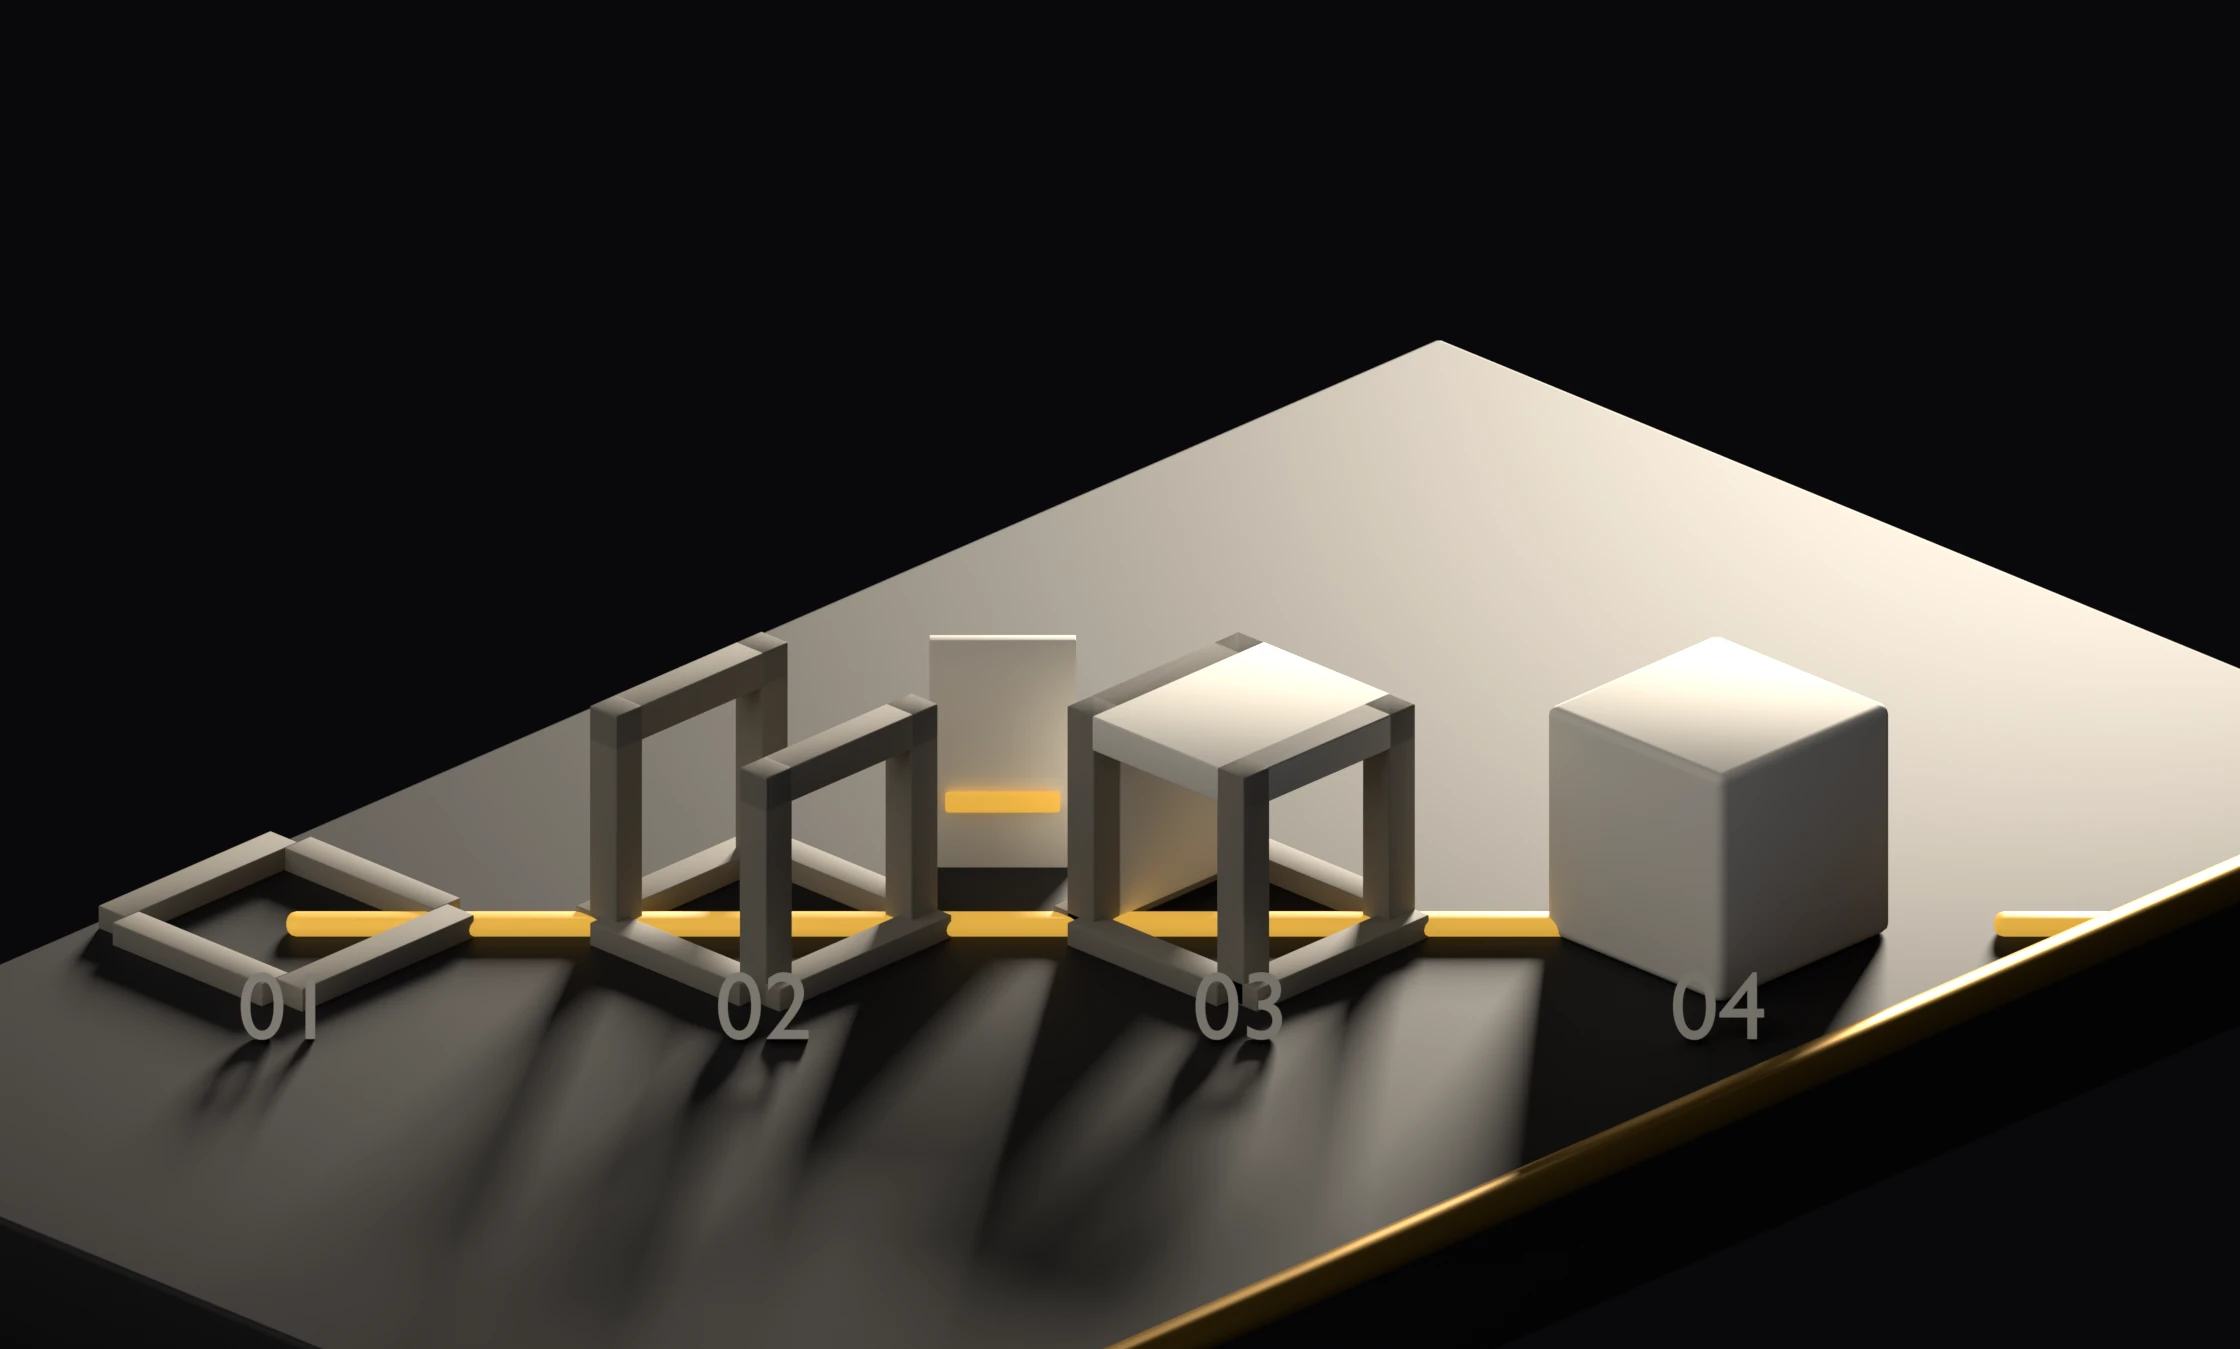
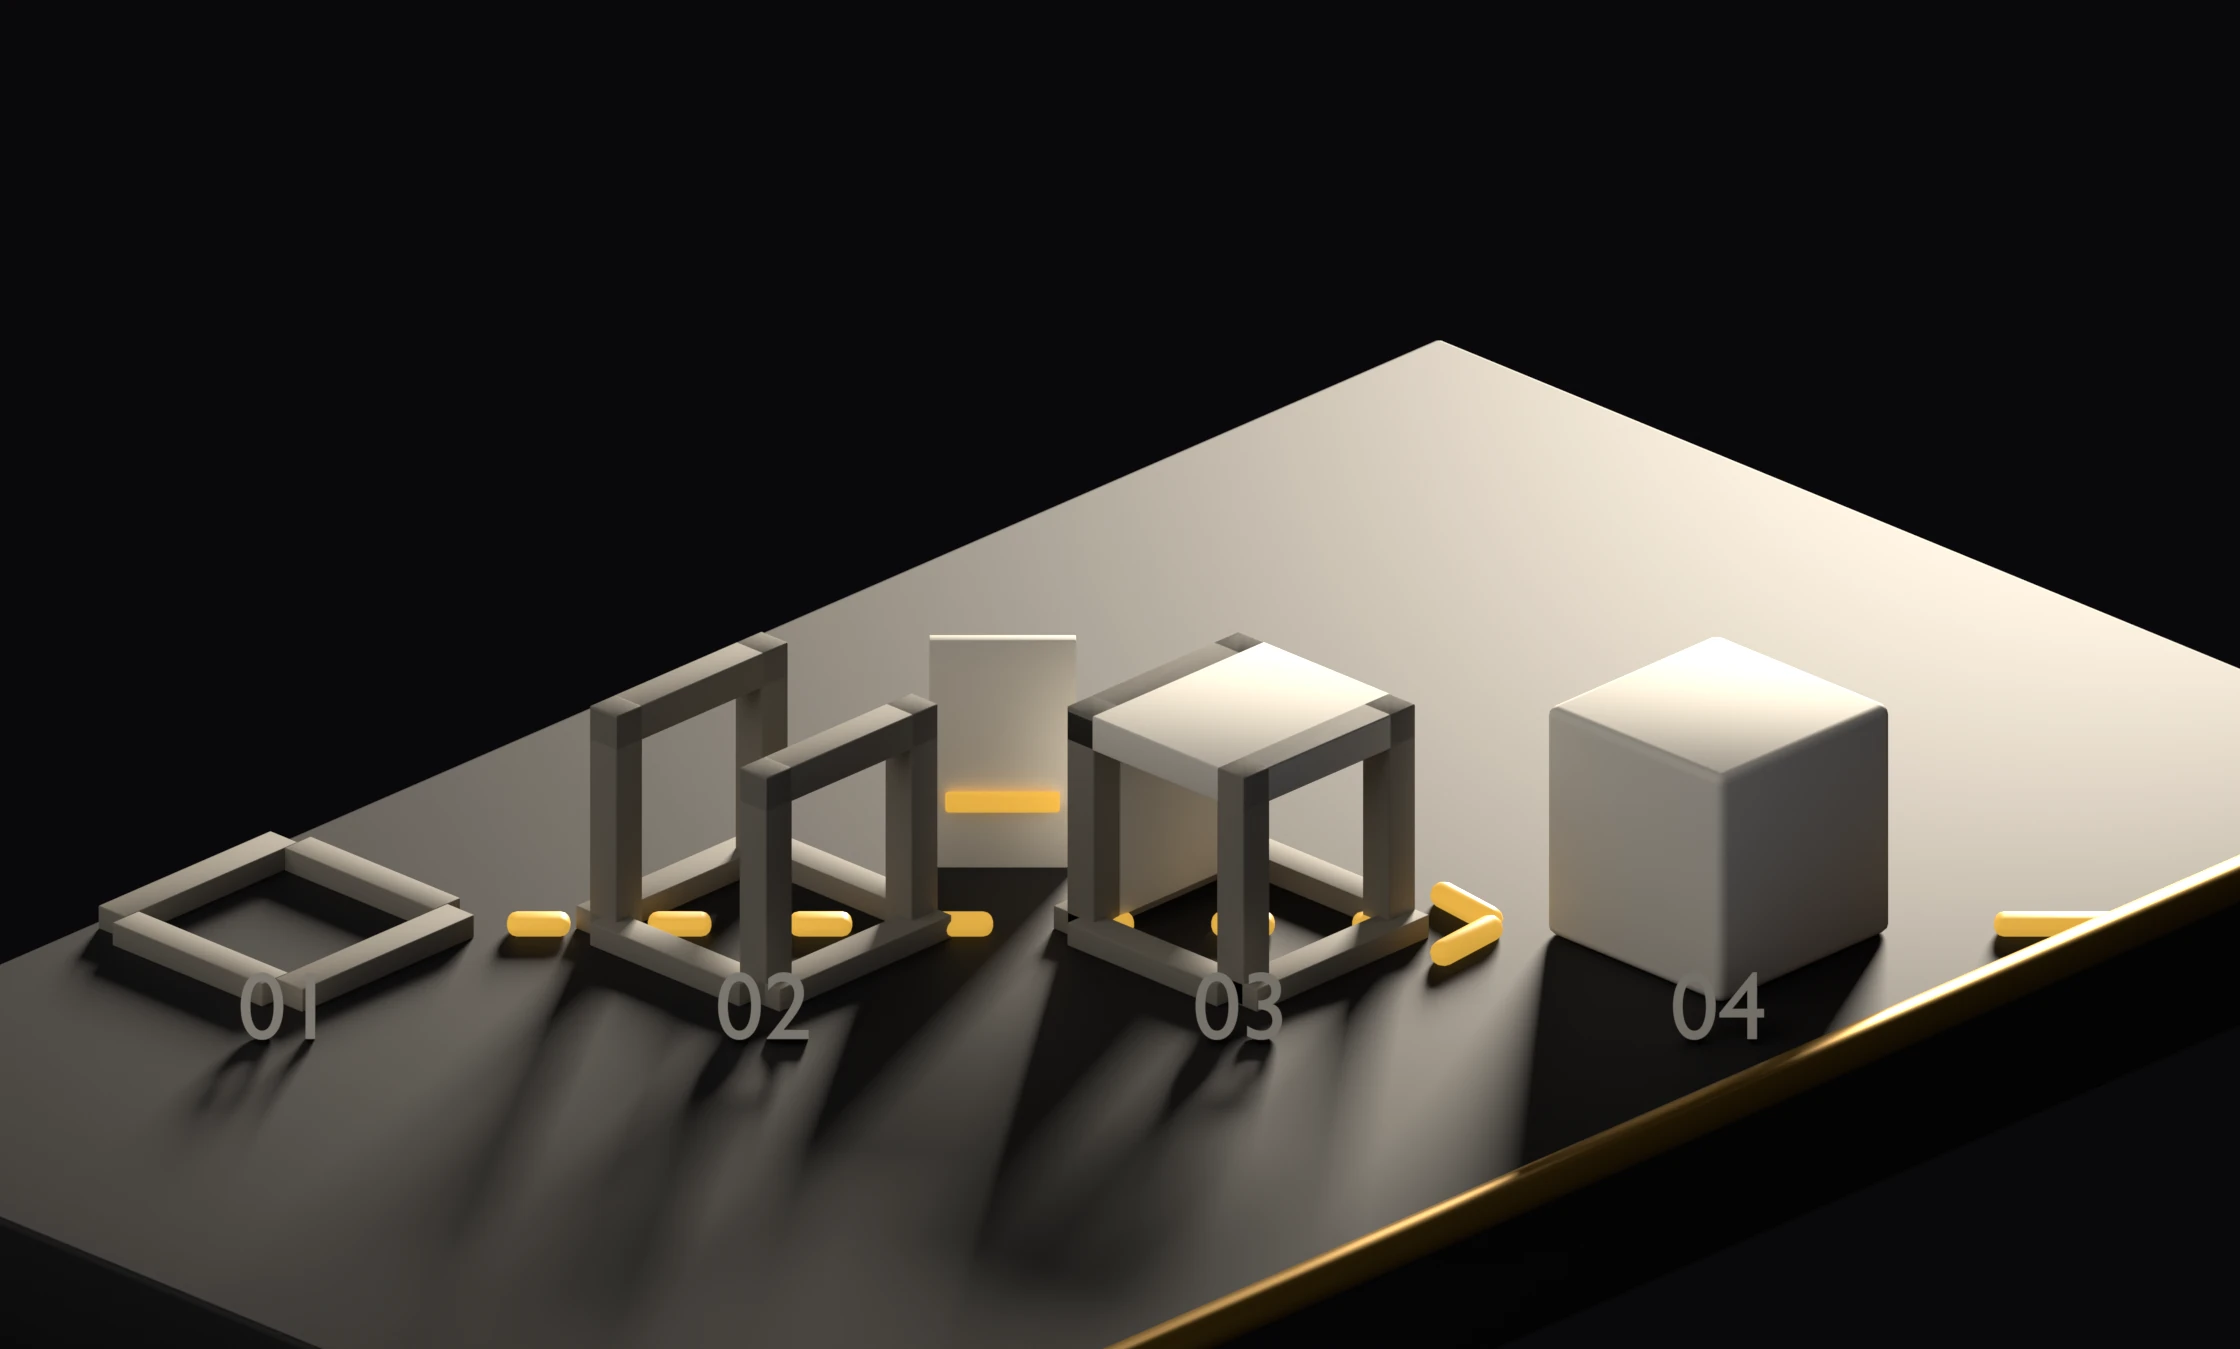
feat(hiw-chaine): le trajet dore devient un pointille a vides francs, fleche
RELEVE QUI L'A IMPOSE : le trajet etait un TRAIT PLEIN continu de la station 01 a
la station 04 — 0,561 de la largeur d'image, 628 px a 1 120 — et trois lecteurs
sur quatre y lisaient « un fil ou cordon ».

CE QUI EST FAIT. `liaison()` posait une boite doree par intervalle et les trois
etaient JOINTIVES, donc le trait etait continu par construction. A la place :
sept tirets + une tete de fleche + la queue detachee inchangee. La grammaire est
transposee de `scene_metier_pharmacie.py`, qui a deja corrige le meme defaut, et
ses DEUX moities sont reprises et non la seule mise en pointille — le pointille,
ET les deux bouts vides (le trajet ne part plus du centre de 01 et n'arrive plus
au centre de 04 : « un trait qui part d'un objet et arrive sur un autre est un
branchement »).

  vide / plein 1,22 contre 1,20 mesure a la pharmacie
  tiret 31,7 x 15,9 px a 1 120, rapport 2,00:1 — plus long que large
  vides de bout 23,1 / 18,9 px, avant la tete 14,0 px, entree de queue 50,4 px

LA FLECHE EST AU SOL, ET LE PLAN DE L'IMAGE ETAIT INCONSTRUCTIBLE. Transposee
telle quelle, l'ouverture du chevron de la pharmacie tombe ici sur l'axe vertical
d'ecran (0,3030 ; 0,2946 ; 0,9065) ; a z = 0,012 une branche de 0,18 y descendrait
a z = -0,116, sous le dessus du socle. Le chevron ouvre donc dans le PLAN DU SOL,
ou la transverse est raccourcie a 0,4227 : il faut 103 deg en 3D pour 55,95 deg
VUS, soit 0,1 deg du chevron valide de la pharmacie. Vide interne 27,6 px pour un
[…]

diff --git a/components/HowItWorks.tsx b/components/HowItWorks.tsx
@@ -176,6 +176,26 @@ const X_STATIONS = [0.1278, 0.3409, 0.5541, 0.7673] as const;
  * optionnel » y pend a 0,9202. Un rail continu jusqu'au bout contredisait donc
  * l'image qu'il longe : il annoncait une suite acquise la ou le rendu montre une
  * option.
+ *
+ * ── CE COMMENTAIRE A CHANGE DE SENS, ET LE RAIL N'A PAS BOUGE ────────────────
+ * `scene_chaine.py` rendait un TRAIT PLEIN continu de la station 01 a la station 04.
+ * Il est desormais un POINTILLE A VIDES FRANCS termine par une FLECHE au sol —
+ * releve de lecture : trois lecteurs sur quatre lisaient « un fil ou cordon » sur le
+ * trait continu.
+ *
+ * Consequence a dire, parce qu'elle affaiblit l'argument ci-dessus : le contraste
+ * « continu jusqu'a 04, pointille apres » ne decrit plus une opposition PLEIN /
+ * POINTILLE dans l'image, puisque toute l'image est pointillee. Ce que le rail
+ * continue de coder juste, et c'est le seul point qui portait vraiment, est le
+ * DETACHEMENT : la queue est separee par 50,4 px a 1 120 quand un vide ordinaire du
+ * pointille en fait 38,7, et rien ne pointe vers elle — la fleche s'arrete a la
+ * station 04. Un rail continu jusqu'au bout annoncerait toujours une suite acquise.
+ *
+ * LES QUATRE ABSCISSES DE X_STATIONS SONT INCHANGEES A L'IDENTIQUE — verifie sur le
+ * `chaine.ancres.json` re-emis : 0,1278 / 0,3409 / 0,5541 / 0,7673, et les deux
+ * ancres d'etiquette valent toujours (0,7673 ; 0,2407) et (0,9202 ; 0,3534). Le
+ * rail, ses quatre tirets et la grille de colonnes ne visent donc rien qui ait
+ * bouge, et ce lot ne les a pas touches.
  */
 const X_QUEUE = X_STATIONS[3];
 
